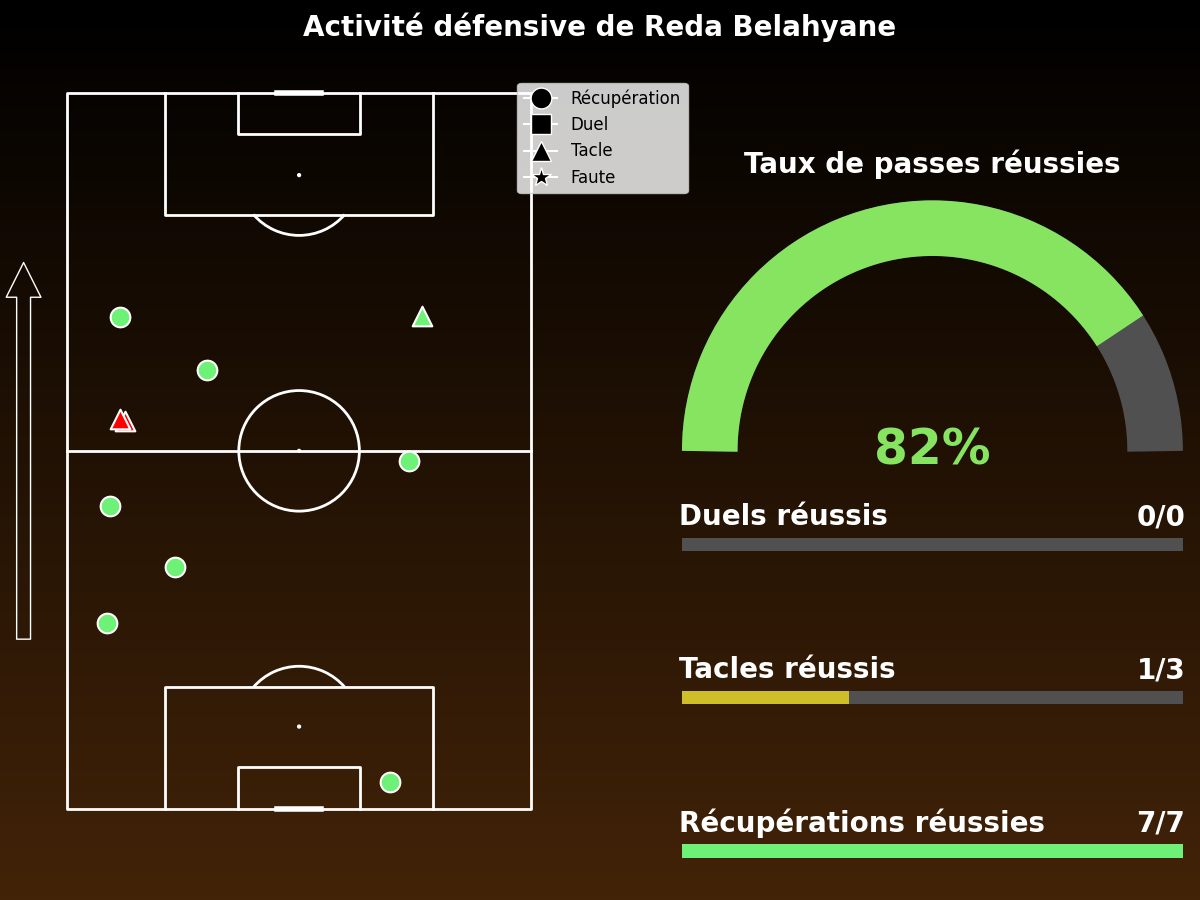
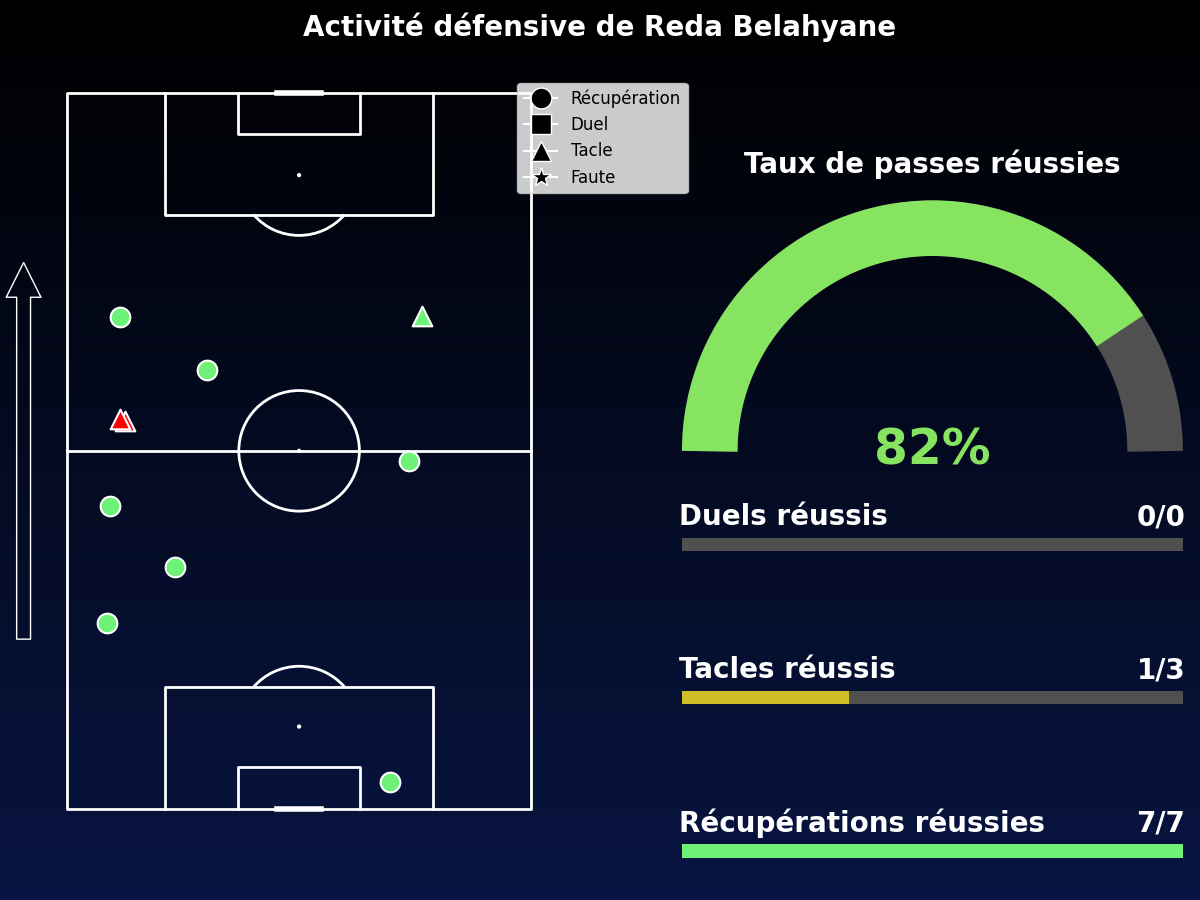
MAJ - color template

diff --git a/src/player_visualizer.py b/src/player_visualizer.py
@@ -11,12 +11,17 @@ from mpl_toolkits.axes_grid1 import make_axes_locatable
 from scipy.ndimage import gaussian_filter
 import cmasher as cmr
 from player_image_downloader import PlayerProfileScraper
+from match_data_extractor import MatchDataExtractor
 
 
 class PlayerVisualizer:
-    def __init__(self, player_data_path):
+    def __init__(self, player_data_path, html_path):
         self.player_data_path = player_data_path
         self.player_data = self._load_player_data()
+
+        self.match_extractor = MatchDataExtractor(html_path)
+        self.competition, self.color1, self.color2 = self.match_extractor.get_competition_and_colors()
+
 
     def _load_player_data(self):
         with open(self.player_data_path, 'r') as file:
@@ -86,16 +91,12 @@ class PlayerVisualizer:
         committed_fouls = [event for event in fouls if event.get('outcomeType', {}).get('displayName') == 'Unsuccessful']
         submitted_fouls = [event for event in fouls if event.get('outcomeType', {}).get('displayName') == 'Successful']
 
-        # Choisir les deux couleurs en hexadecimal
-        color1 = "#000000"  # Bleu foncé
-        color2 = "#422308"  # Violet
-
         # Créer un gradient vertical (de haut en bas)
         gradient = np.linspace(0, 1, 256).reshape(-1, 1)
         gradient = np.hstack((gradient, gradient))
 
         # Créer un colormap personnalisé à partir des couleurs hexadécimales
-        cmap = mcolors.LinearSegmentedColormap.from_list("", [color1, color2])
+        cmap = mcolors.LinearSegmentedColormap.from_list("", [self.color1, self.color2])
 
         # Créer une figure
         fig = plt.figure(figsize=(16, 16))
@@ -273,16 +274,12 @@ class PlayerVisualizer:
 
         key_passes = sum(1 for event in self.player_data['events'] if any(qualifier['type']['displayName'] == 'KeyPass' for qualifier in event.get('qualifiers', [])))
     
-        # Choisir les deux couleurs en hexadecimal
-        color1 = "#000000"  # Bleu foncé
-        color2 = "#422308"  # Violet
-    
         # Créer un gradient vertical (de haut en bas)
         gradient = np.linspace(0, 1, 256).reshape(-1, 1)
         gradient = np.hstack((gradient, gradient))
     
         # Créer un colormap personnalisé à partir des couleurs hexadécimales
-        cmap = mcolors.LinearSegmentedColormap.from_list("", [color1, color2])
+        cmap = mcolors.LinearSegmentedColormap.from_list("", [self.color1, self.color2])
     
         # Créer une figure
         fig = plt.figure(figsize=(12, 9))
@@ -439,16 +436,12 @@ class PlayerVisualizer:
         background_color = '#8549B7'  # Violet foncé
         orange_background = '#D4CAE1'  # Orange
 
-        # Choisir les deux couleurs en hexadecimal
-        color1 = "#000000"  # Bleu foncé
-        color2 = "#422308"  # Violet
-
         # Créer un gradient vertical (de haut en bas)
         gradient = np.linspace(0, 1, 256).reshape(-1, 1)
         gradient = np.hstack((gradient, gradient))
 
         # Créer un colormap personnalisé à partir des couleurs hexadécimales
-        cmap = mcolors.LinearSegmentedColormap.from_list("", [color1, color2])
+        cmap = mcolors.LinearSegmentedColormap.from_list("", [self.color1, self.color2])
 
         # Créer une figure adaptée pour téléphone
         fig = plt.figure(figsize=(9, 16))  # Largeur 9, hauteur 16 pour un meilleur ajustement mobile
@@ -645,16 +638,12 @@ class PlayerVisualizer:
             'Unsuccessful': 'red'
         }
 
-        # Choisir les deux couleurs en hexadecimal
-        color1 = "#000000"  # Bleu foncé
-        color2 = "#422308"  # Violet
-
         # Créer un gradient vertical (de haut en bas)
         gradient = np.linspace(0, 1, 256).reshape(-1, 1)
         gradient = np.hstack((gradient, gradient))
 
         # Créer un colormap personnalisé à partir des couleurs hexadécimales
-        cmap = mcolors.LinearSegmentedColormap.from_list("", [color1, color2])
+        cmap = mcolors.LinearSegmentedColormap.from_list("", [self.color1, self.color2])
 
         # Créer une figure
         fig = plt.figure(figsize=(12, 9))
@@ -767,16 +756,12 @@ class PlayerVisualizer:
     
         total_events = len(offensive_events)
     
-        # Choisir les deux couleurs en hexadecimal
-        color1 = "#000000"  # Bleu foncé
-        color2 = "#422308"  # Violet
-    
         # Créer un gradient vertical (de haut en bas)
         gradient = np.linspace(0, 1, 256).reshape(-1, 1)
         gradient = np.hstack((gradient, gradient))
     
         # Créer un colormap personnalisé à partir des couleurs hexadécimales
-        cmap = mcolors.LinearSegmentedColormap.from_list("", [color1, color2])
+        cmap = mcolors.LinearSegmentedColormap.from_list("", [self.color1, self.color2])
     
         # Créer une figure
         fig = plt.figure(figsize=(12, 9))

diff --git a/src/match_data_extractor.py b/src/match_data_extractor.py
@@ -3,8 +3,9 @@ import json
 import os
 
 class MatchDataExtractor:
-    def __init__(self, html_path):
+    def __init__(self, html_path, color_json_path="data/color_template.json"):
         self.html_path = html_path
+        self.color_json_path = color_json_path
         self.data = self._extract_data_html()
 
     def _extract_data_html(self):
@@ -25,6 +26,43 @@ class MatchDataExtractor:
         data_json = json.loads(data_txt)
 
         return data_json
+
+    def get_competition_from_filename(self):
+        """Extracts the competition name from the HTML filename."""
+        filename = os.path.basename(self.html_path)
+        competition_keywords = [
+            "Ligue 1", "Premier League", "Serie A", "La Liga", "Bundesliga",
+            "Champions League", "Europa League", "Conference League"
+        ]
+        for keyword in competition_keywords:
+            if keyword.lower() in filename.lower():
+                return keyword
+        return None  # Return None if no competition is found
+
+    def load_colors_for_competition(self, competition_name):
+        """Loads the colors for the given competition from the JSON file."""
+        try:
+            with open(self.color_json_path, 'r') as f:
+                colors_data = json.load(f)
+        except FileNotFoundError:
+            print(f"JSON file '{self.color_json_path}' not found.")
+            return "#FFFFFF", "#000000"  # Default colors in case of an error
+
+        # Get the colors for the competition
+        competition_colors = colors_data.get("competitions", {}).get(competition_name)
+        if competition_colors:
+            return competition_colors["color1"], competition_colors["color2"]
+        else:
+            return "#FFFFFF", "#000000"  # Default colors if not found
+
+    def get_competition_and_colors(self):
+        """Combines competition extraction and color loading."""
+        competition = self.get_competition_from_filename()
+        if competition:
+            color1, color2 = self.load_colors_for_competition(competition)
+            return competition, color1, color2
+        else:
+            return "Unknown Competition", "#FFFFFF", "#000000"
 
     def extract_player_stats_and_events(self, player_name, output_dir="player_data"):
         print("Extraction des données pour le joueur - ", player_name)

diff --git a/src/main.py b/src/main.py
@@ -22,7 +22,7 @@ def main(url, player_name, poste):
     player_data_file = extractor.extract_player_stats_and_events(player_name)
 
     # Initialize the visualizer with the extracted data
-    visualizer = PlayerVisualizer(player_data_file)
+    visualizer = PlayerVisualizer(player_data_file, url)
     
     # Save paths for the various visualizations
     save_path_passes = os.path.join(match_folder, f'{player_name.replace(" ", "_")}_passes_and_pie_charts.png')
